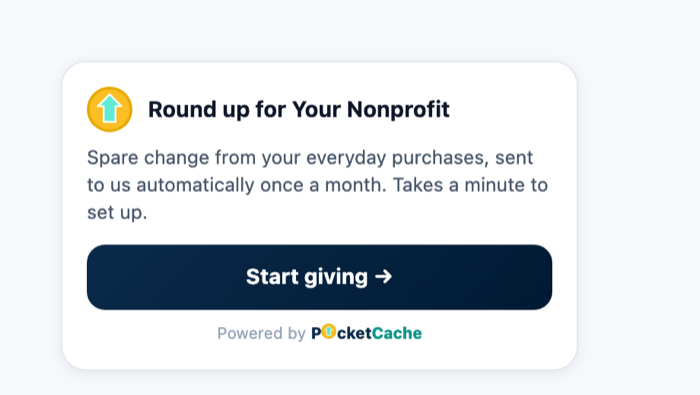
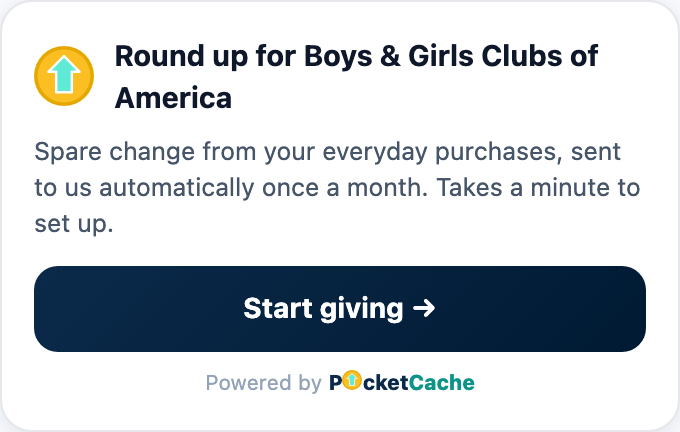
Fix distorted app screenshots on the marketing site
The app screenshots in landing/assets/ were full-page-height grabs
squeezed into fixed phone frames with the wrong aspect ratio - text
was microscopic and proportions were squished.

- Retook all four screenshots with Playwright: donor dashboard and
  activity tab at the real device viewport (390x844, deviceScaleFactor
  2, viewport-only, seeded BGCA demo state), the nonprofit microsite
  at desktop width, and the embed widget from a plain host page at its
  natural aspect.
- shared.css: .phone-frame now locks aspect-ratio: 390/844 on the
  screen element (width-driven, no fixed height) with object-fit:
  cover/object-position: top on the image, so phone mocks can never be
  squished again.
- Widened every phone mock to a legible size: nonprofits' three-up
  phone card and the donors hero pair were capped at 200-220px, well
  under readable size at desktop widths. The donors hero now overlaps
  two full ~300px phones artfully instead of shrinking both to fit
  side by side.
- Updated the width/height hints on every affected <img> to match the
  real capture dimensions so there's no layout shift on load.

Claude-Session: https://claude.ai/code/session_01QkSKuPc8mgqtDicBdxJaB9

Changed region(s): [[0.0309, 0.0911, 0.9574, 0.5772], [0.0309, 0.6076, 0.9574, 0.9114]]

diff --git a/landing/donors/index.html b/landing/donors/index.html
@@ -23,12 +23,21 @@
   .page-hero-inner { max-width: 1180px; margin: 0 auto; display: grid; grid-template-columns: 1.05fr 0.95fr; gap: 56px; align-items: center; }
   .page-hero h1 { font-size: clamp(30px, 4.6vw, 48px); font-weight: 800; letter-spacing: -1.4px; color: var(--navy); line-height: 1.12; }
   .page-hero p.sub { font-size: 17px; color: var(--slate); line-height: 1.7; margin: 16px 0 0; max-width: 480px; }
-  .phones-pair { display: flex; gap: 22px; justify-content: center; align-items: flex-end; }
-  .phones-pair .phone-frame { max-width: 200px; }
-  .phones-pair .phone-frame.tall { max-width: 220px; margin-bottom: -12px; }
+  /* Two phones, overlapped rather than shrunk: side by side at a legible
+     ~300px each doesn't fit this column, so the second phone tucks in
+     behind-and-right of the first instead of both getting squeezed down to
+     an unreadable size. */
+  .phones-pair { position: relative; display: flex; justify-content: center; max-width: 460px; margin: 0 auto; }
+  .phones-pair .phone-frame { width: 300px; max-width: 300px; flex-shrink: 0; }
+  .phones-pair .phone-frame.tall { width: 300px; max-width: 300px; margin-left: -78px; margin-bottom: -30px; align-self: flex-end; z-index: 2; box-shadow: 0 30px 70px rgba(11,42,74,0.32); }
   @media (max-width: 900px) {
     .page-hero-inner { grid-template-columns: 1fr; text-align: center; }
     .page-hero p.sub { margin-left: auto; margin-right: auto; }
+  }
+  @media (max-width: 560px) {
+    .phones-pair { max-width: 300px; }
+    .phones-pair .phone-frame, .phones-pair .phone-frame.tall { width: 190px; max-width: 190px; }
+    .phones-pair .phone-frame.tall { margin-left: -52px; margin-bottom: -20px; }
   }
 
   /* ── Feature list ── */
@@ -89,13 +98,13 @@
         <div class="phone-frame">
           <div class="notch" aria-hidden="true"></div>
           <div class="phone-screen">
-            <img src="/assets/app-dashboard.png" alt="Donor app home dashboard showing round-up balance, giving streak, and upcoming monthly charge" width="285" height="620"/>
+            <img src="/assets/app-dashboard.png" alt="Donor app home dashboard showing round-up balance, giving streak, and upcoming monthly charge" width="390" height="844"/>
           </div>
         </div>
         <div class="phone-frame tall">
           <div class="notch" aria-hidden="true"></div>
           <div class="phone-screen">
-            <img src="/assets/app-activity.png" alt="Donor app activity screen showing giving history and a small chart" width="285" height="620"/>
+            <img src="/assets/app-activity.png" alt="Donor app activity screen showing giving history and a small chart" width="390" height="844"/>
           </div>
         </div>
       </div>

diff --git a/landing/nonprofits/index.html b/landing/nonprofits/index.html
@@ -110,7 +110,7 @@
           <span class="dot"></span><span class="dot"></span><span class="dot"></span>
           <span class="url">pocketcache.app/yourcode</span>
         </div>
-        <img src="/assets/app-microsite.png" alt="Example of a nonprofit's branded public giving page with a hero section, story, and a Start giving button" width="1400" height="1182"/>
+        <img src="/assets/app-microsite.png" alt="Example of a nonprofit's branded public giving page with a hero section, story, and a Start giving button" width="1280" height="840"/>
       </div>
     </div>
     <div class="reveal">
@@ -130,7 +130,7 @@
     <div class="three-up">
       <div class="three-up-item reveal">
         <div class="widget-mock">
-          <img src="/assets/app-widget.png" alt="Embeddable Round up for Your Nonprofit widget card, powered by PocketCache" width="700" height="395"/>
+          <img src="/assets/app-widget.png" alt="Embeddable Round up for Your Nonprofit widget card, powered by PocketCache" width="680" height="432"/>
         </div>
         <h3>Embeddable widget</h3>
         <p>One line of code adds a "Round up for us" card anywhere on your existing website.</p>
@@ -147,10 +147,10 @@
         <p>Table tents, newsletters, receipts, wherever your donors already are.</p>
       </div>
       <div class="three-up-item reveal">
-        <div class="phone-frame" style="max-width:220px;">
+        <div class="phone-frame" style="max-width:300px;">
           <div class="notch" aria-hidden="true"></div>
           <div class="phone-screen">
-            <img src="/assets/app-dashboard.png" alt="Donor app home dashboard showing balance, streak, and upcoming monthly charge" width="285" height="620"/>
+            <img src="/assets/app-dashboard.png" alt="Donor app home dashboard showing balance, streak, and upcoming monthly charge" width="390" height="844"/>
           </div>
         </div>
         <h3>App and web giving</h3>

diff --git a/landing/assets/shared.css b/landing/assets/shared.css
@@ -247,14 +247,23 @@ h2.section-title {
 .flow-arrow.teal { color: var(--teal-ui); }
 @media (max-width: 760px) { .flow { flex-direction: column; } .flow-arrow { transform: rotate(90deg); padding: 6px 0; } }
 
-/* ── Device frames ── */
+/* ── Device frames ──
+   App screenshots are captured at exactly 390x844 (see the landing screenshot
+   script). phone-screen locks that same ratio with aspect-ratio rather than a
+   fixed pixel height, so sizing stays width-driven and every phone mock stays
+   undistorted at any column width instead of being squashed to fit a box.
+   object-fit:cover + object-position:top is a safety net for the rare shot
+   that isn't captured at exactly 390:844 - it crops instead of stretching. */
 .phone-frame {
   width: 100%; max-width: 300px; margin: 0 auto;
   background: var(--navy-900); border-radius: 42px; padding: 12px;
   box-shadow: var(--card-shadow-lg);
 }
-.phone-frame .phone-screen { border-radius: 32px; overflow: hidden; background: #fff; position: relative; }
-.phone-frame .phone-screen img { width: 100%; display: block; }
+.phone-frame .phone-screen {
+  aspect-ratio: 390 / 844;
+  border-radius: 32px; overflow: hidden; background: #fff; position: relative;
+}
+.phone-frame .phone-screen img { width: 100%; height: 100%; display: block; object-fit: cover; object-position: top; }
 .phone-frame .notch { position: absolute; top: 0; left: 50%; transform: translateX(-50%); width: 120px; height: 22px; background: var(--navy-900); border-radius: 0 0 16px 16px; z-index: 2; }
 
 .browser-frame {

diff --git a/landing/index.html b/landing/index.html
@@ -244,7 +244,7 @@ if (!sessionStorage.getItem('pc-authfwd') && (location.hash.indexOf('access_toke
           <span class="dot"></span><span class="dot"></span><span class="dot"></span>
           <span class="url">pocketcache.app/yourcode</span>
         </div>
-        <img src="/assets/app-microsite.png" alt="Example of a nonprofit's branded public giving page, with a hero section and a Start giving button" width="1400" height="1182"/>
+        <img src="/assets/app-microsite.png" alt="Example of a nonprofit's branded public giving page, with a hero section and a Start giving button" width="1280" height="840"/>
       </div>
     </div>
   </div>
